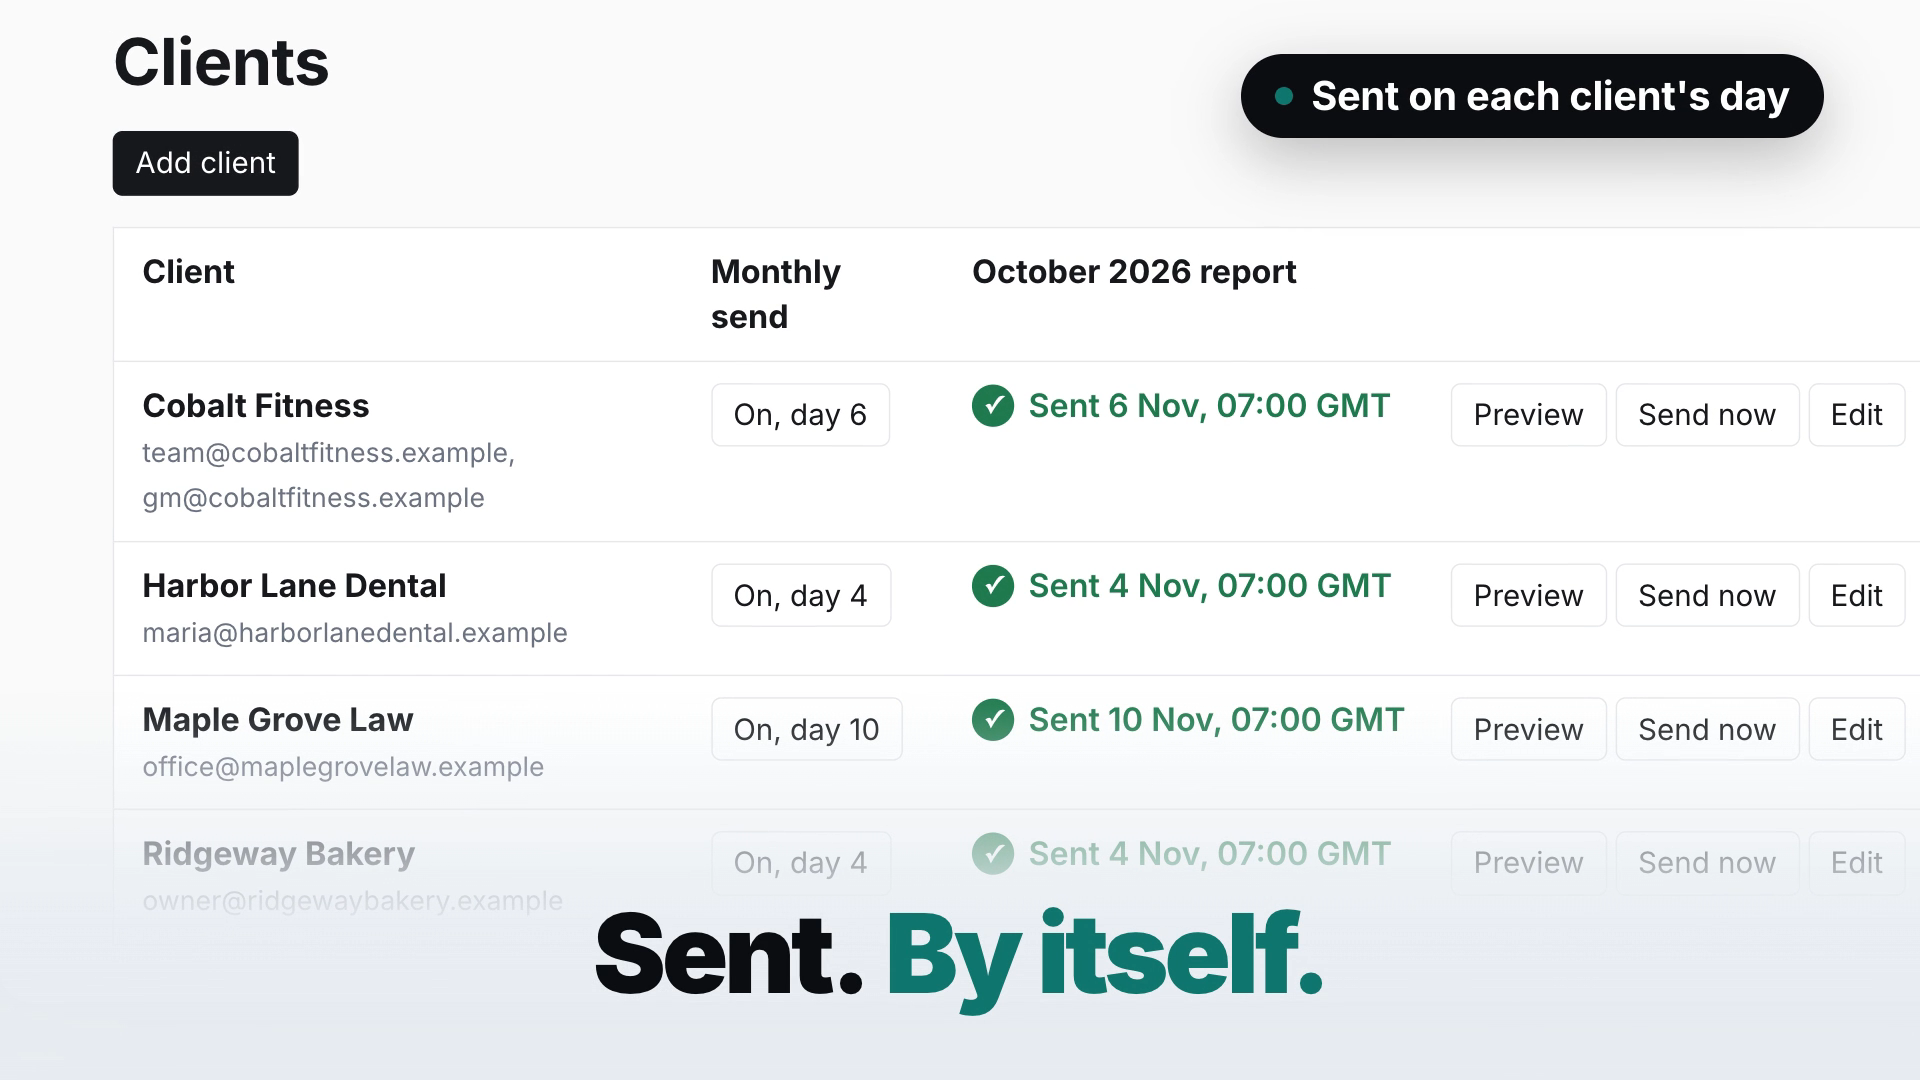
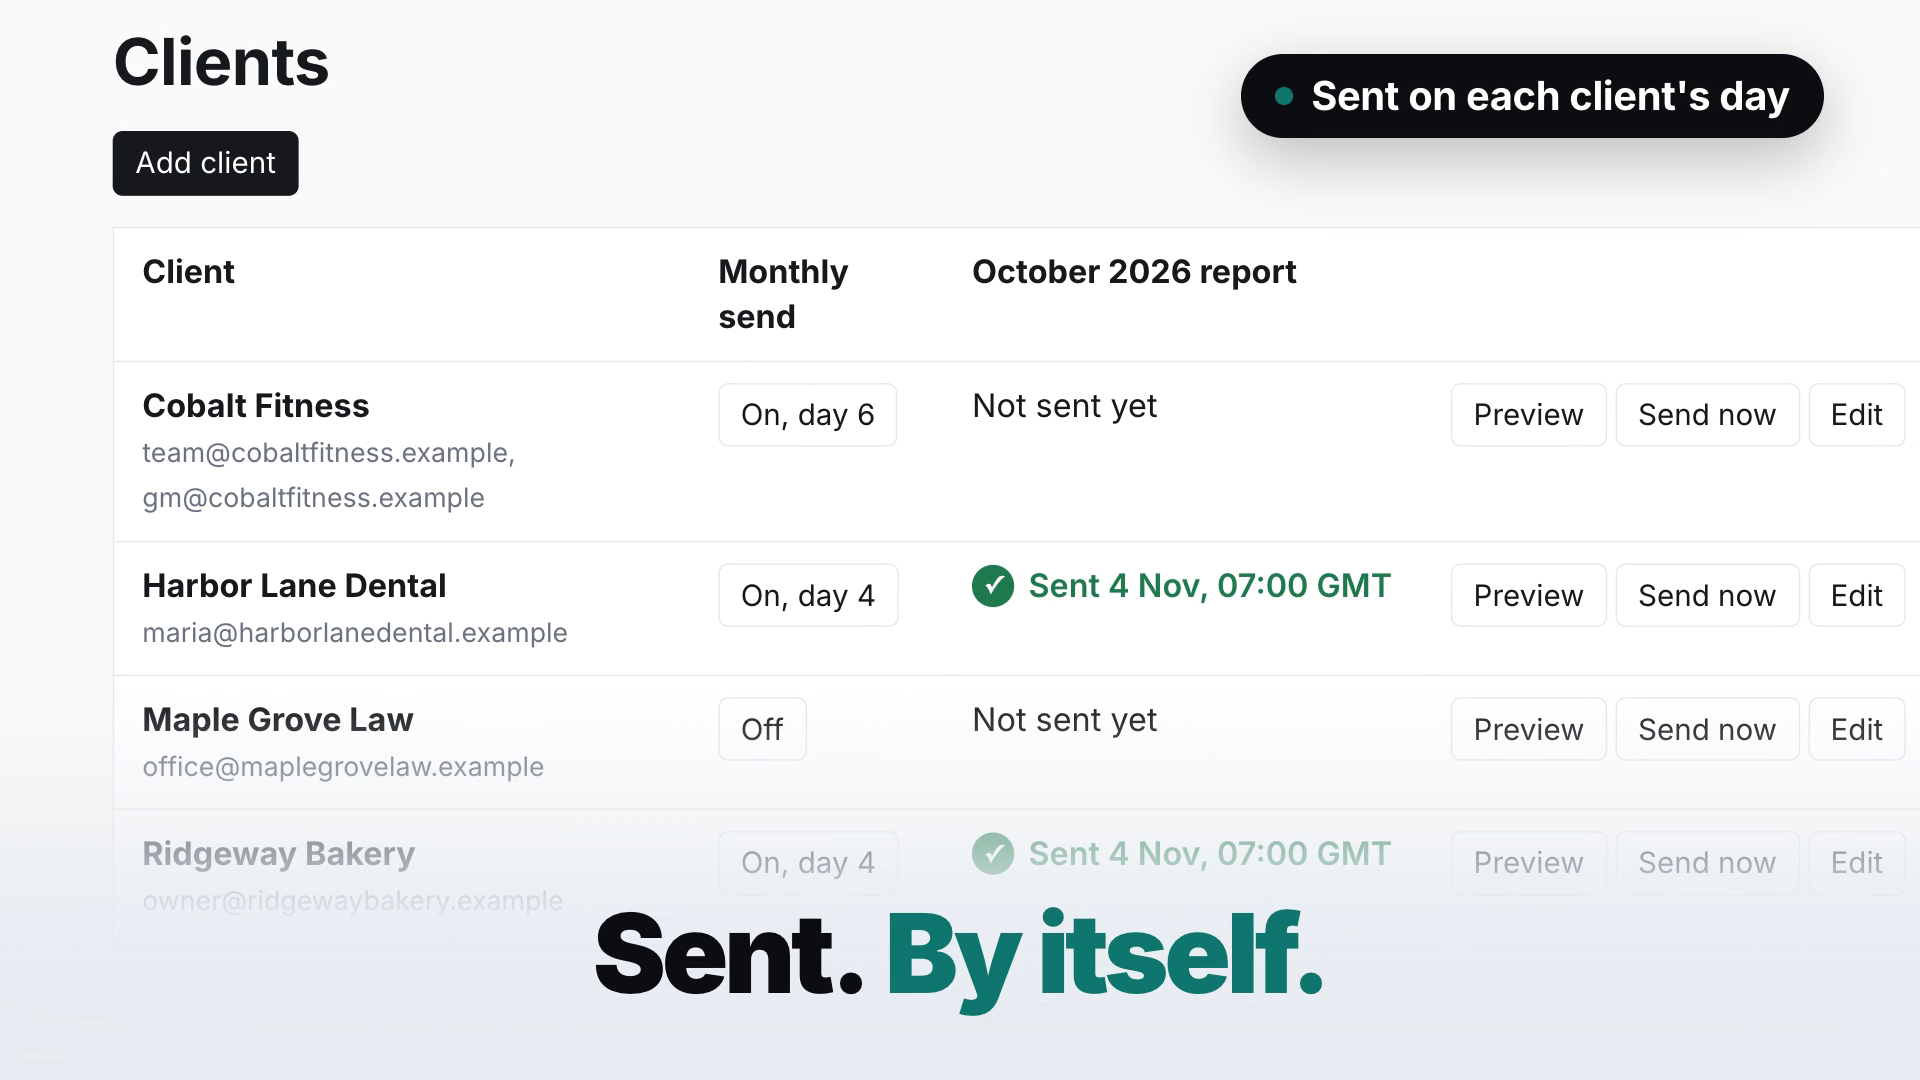
Fix example data and pacing, keep commands whole

diff --git a/skills/readmereel/template/runtime.js b/skills/readmereel/template/runtime.js
@@ -159,22 +159,26 @@ var RR = (function () {
   // ---------- terminal push (pure geometry) ----------
   // The terminal camera's push onto its focus block (the union of the highlighted lines' text): scale up to `max`
   // (1.4), capped so the whole block (every highlighted line, whole) stays inside the 40 px margins; the block's centre
-  // carried to the frame's middle down. Across, `column` (all the terminal's text, left-aligned) is centred when it
-  // fits at that scale; otherwise its left edge sits 80 px in, so only the tails of other lines crop. A block too wide
-  // for a 1.15 push (a long payoff line in tall) still gets 1.15, on the column left-aligned 80 px in.
+  // carried to the frame's middle down. The push is also capped so `column` (all the terminal's text, the command
+  // included) fits inside the margins: the command is never cut. Across, the column is centred; only a column wider
+  // than the margins at scale 1 (no push) sits with its left edge 80 px in.
   // Rects in frame px at identity.
   function termPush(W, H, block, max, column) {
     const SAFE = 40;
     const cap = Math.min(max || 1.4, (W - 2 * SAFE) / Math.max(1, block.w), (H - 2 * SAFE) / Math.max(1, block.h));
-    const scale = Math.max(cap, 1.15);
+    // Never so far that the text column (the command included) runs past the margins: a column wider than the frame's
+    // margins at 1 gets no push at all.
+    const colCap = column ? (W - 2 * SAFE) / Math.max(1, column.w) : Infinity;
+    const scale = Math.min(Math.max(cap, 1.15), Math.max(colCap, 1));
     const ox = block.x + block.w / 2, oy = block.y + block.h / 2;
     const on = (x) => ox + scale * (x - ox);
     const col = column || block;
     let tx;
-    if (cap < 1.15) tx = 2 * SAFE - on(col.x);
+    if (col.w * scale <= W - 2 * SAFE + 1e-6) tx = W / 2 - on(col.x + col.w / 2);
     else {
-      tx = col.w * scale <= W - 2 * SAFE ? W / 2 - on(col.x + col.w / 2) : 2 * SAFE - on(col.x);
-      tx = Math.min(Math.max(tx, SAFE - on(block.x)), W - SAFE - on(block.x + block.w));
+      // Only a column wider than the margins at scale 1 gets here: its left edge 80 px in, the block kept inside.
+      tx = 2 * SAFE - on(col.x);
+      if (cap >= 1.15) tx = Math.min(Math.max(tx, SAFE - on(block.x)), W - SAFE - on(block.x + block.w));
     }
     return { scale, ox, oy, tx, ty: H / 2 - oy };
   }
@@ -251,23 +255,30 @@ var RR = (function () {
       return { x: sh.x + best("x"), y: sh.y + best("y"), scale: s };
     }
     // The push to one focus box. Wide: the box fills at most 80% of the width and fits under the chip (scale 1.2 to
-    // 2.6), centred. Tall: framed by height (the box about half the frame); a box then wider than the frame is panned,
-    // from its left edge to its right edge, while it holds. band = { top, bottom }: where the box may sit.
+    // 2.6), centred. Tall: the box across the width, the window over at least 60% of the height; a box then wider than
+    // the frame is panned, from its left edge to its right edge, while it holds. band = { top, bottom }: where the box
+    // may sit.
     function focus(g, r, texts, band) {
       const room = band.bottom - band.top;
       if (g.wide) {
         const s = clamp(Math.min((0.8 * g.W) / r.w, (0.9 * room) / r.h), 1.2, 2.6);
         return { from: clean(g, shot(g, r, s, g.W / 2, g.H / 2, band.top, band.bottom), texts, r, band.top, band.bottom), to: null };
       }
-      const s = clamp(Math.min((0.5 * g.H) / r.h, (0.9 * room) / r.h), 1.2, 2.6);
+      // Tall: the box fills the 1080 px width, and the window covers at least 60% of the height (a frame that is
+      // mostly ground reads as empty); a box then wider than the frame is panned.
+      const fill = (g.W - 2 * SAFE) / r.w, body = (0.6 * g.H) / g.WH;
+      const s = clamp(Math.min(Math.max(fill, body), (0.9 * room) / r.h), 1.2, 2.6);
       const cy = (band.top + band.bottom) / 2;
       if (s * r.w <= g.W - 2 * SAFE) return { from: clean(g, shot(g, r, s, g.W / 2, cy, band.top, band.bottom), texts, r, band.top, band.bottom), to: null };
       const at = (cx) => clean(g, shot(g, r, s, cx, cy, band.top, band.bottom), texts, r, band.top, band.bottom);
       return { from: at(SAFE + (s * r.w) / 2), to: at(g.W - SAFE - (s * r.w) / 2) };
     }
-    // The caption view: 10% back from where the last push ended, the box lifted between the chip and the caption.
+    // The caption view: 10% back from where the last push ended (tall: the box across the width), the box lifted
+    // between the chip and the caption.
     function backShot(g, r, last, texts, band) {
-      const s = Math.max(1, Math.min(last.scale * 0.9, (0.95 * (band.bottom - band.top)) / r.h));
+      // Tall: the whole box across the width, centred (the caption view shows what acted, uncut).
+      const far = g.wide ? last.scale * 0.9 : (g.W - 2 * SAFE) / r.w;
+      const s = Math.max(1, Math.min(far, (0.95 * (band.bottom - band.top)) / r.h));
       const wider = s * r.w > g.W - 2 * SAFE;
       // Tall, still wider than the frame: stay on the side the pan ended on.
       const cx = !g.wide && wider ? g.W - SAFE - (s * r.w) / 2 : g.W / 2;
@@ -407,6 +418,7 @@ var RR = (function () {
           const dot = document.createElement("div");
           dot.className = "zoom-dot";
           dot.setAttribute("data-layout-ignore", "");
+        dot.setAttribute("data-layout-allow-occlusion", ""); // it covers the scene on purpose
           // A crisp disc: motion blur's capture of a fast-growing layer let parts of the screen show through it.
           dot.setAttribute("data-motion-blur", "off");
           Object.assign(dot.style, { position: "absolute", left: cx - r + "px", top: cy - r + "px", width: 2 * r + "px", height: 2 * r + "px", borderRadius: "50%", background: disc, opacity: "0", zIndex: "50", pointerEvents: "none" });
@@ -429,6 +441,7 @@ var RR = (function () {
         const dot = document.createElement("div");
         dot.className = "zoom-dot";
         dot.setAttribute("data-layout-ignore", "");
+        dot.setAttribute("data-layout-allow-occlusion", ""); // it covers the scene on purpose
         dot.setAttribute("data-motion-blur", "off");
         Object.assign(dot.style, { position: "absolute", left: cx - r + "px", top: cy - r + "px", width: 2 * r + "px", height: 2 * r + "px", borderRadius: "50%", background: D.nextGround, opacity: "0", zIndex: "50", pointerEvents: "none" });
         R.appendChild(dot);

diff --git a/skills/readmereel/template/scenes/ui.html b/skills/readmereel/template/scenes/ui.html
@@ -208,7 +208,10 @@ __RUNTIME__
   const onScreen = (r) => ({ x: back.x + back.scale * r.x, y: back.y + back.scale * r.y, w: back.scale * r.w, h: back.scale * r.h });
   let dive = target && onScreen(target);
   const visible = (r) => r.x >= SAFE && r.x + r.w <= W - SAFE && r.y >= top && r.y + r.h <= capTop;
-  if (!dive || !visible(dive)) { dive = onScreen(last); disc = ""; }
+  // No tick to dive through (an image, or a tick hidden under the caption): the dive aims at the last focus box's
+  // centre, through a 120 px disc in the accent colour, so every zoom floods through a colour.
+  if (!dive || !visible(dive)) { const b = onScreen(last); dive = { x: b.x + b.w / 2 - 60, y: b.y + b.h / 2 - 60, w: 120, h: 120 }; disc = D.data.accent; }
+  if (!disc) disc = D.data.accent; // a tick with no colour of its own floods in the accent
   const zw = disc ? dive.w : Math.min(240, Math.max(dive.w, dive.h)), zh = disc ? dive.h : zw;
   const zt = q(".ui-target");
   Object.assign(zt.style, { left: dive.x + dive.w / 2 - zw / 2 + "px", top: dive.y + dive.h / 2 - zh / 2 + "px", width: zw + "px", height: zh + "px" });

diff --git a/examples/agencyrecap/screens/dashboard.html b/examples/agencyrecap/screens/dashboard.html
@@ -39,7 +39,7 @@
   <tr id="row1">
     <td><strong>Cobalt Fitness</strong><br><span class="hint">team@cobaltfitness.example, gm@cobaltfitness.example</span></td>
     <td><button>On, day 6</button></td>
-    <td><div class="status"><span class="was">Not sent yet</span><span class="now ok"><span class="tick">✓</span>Sent 6 Nov, 07:00 GMT</span></div></td>
+    <td>Not sent yet</td>
     <td><a class="button">Preview</a><button>Send now</button><a class="button">Edit</a></td>
   </tr>
   <tr id="row2">
@@ -50,8 +50,8 @@
   </tr>
   <tr id="row3">
     <td><strong>Maple Grove Law</strong><br><span class="hint">office@maplegrovelaw.example</span></td>
-    <td><button>On, day 10</button></td>
-    <td><div class="status"><span class="was">Not sent yet</span><span class="now ok"><span class="tick">✓</span>Sent 10 Nov, 07:00 GMT</span></div></td>
+    <td><button>Off</button></td>
+    <td>Not sent yet</td>
     <td><a class="button">Preview</a><button>Send now</button><a class="button">Edit</a></td>
   </tr>
   <tr id="row4">

diff --git a/skills/readmereel/template/scenes/terminal.html b/skills/readmereel/template/scenes/terminal.html
@@ -120,7 +120,7 @@ __RUNTIME__
   const inked = (el) => { range.selectNodeContents(el); return rect(range); };
   const unite = (rs) => { const x0 = Math.min(...rs.map((r) => r.x)), y0 = Math.min(...rs.map((r) => r.y)); return { x: x0, y: y0, w: Math.max(...rs.map((r) => r.x + r.w)) - x0, h: Math.max(...rs.map((r) => r.y + r.h)) - y0 }; };
   // The push (RR.termPush): onto the highlighted lines' text, up to 1.4 and never so far that it leaves the margins;
-  // down, the lines centred; across, the whole text column centred, or left-aligned 80 px in when it is too wide. Lines too wide for a real push (under 1.3) give way to the first highlighted line alone; without
+  // down, the lines centred; across, the whole text column (the command included) centred, the push capped so it fits. Lines too wide for a real push (under 1.3) give way to the first highlighted line alone; without
   // highlights the push goes to the last line.
   const hls = qa(".term-line.hl");
   const focus = hls[0] || lines.at(-1);

diff --git a/skills/readmereel/template/scenes/counter.html b/skills/readmereel/template/scenes/counter.html
@@ -97,6 +97,9 @@ __RUNTIME__
   q(".counter-glow").style.background = "radial-gradient(900px 700px at " + c.x + "px " + c.y + "px, color-mix(in srgb, var(--accent) 15%, transparent), transparent 70%)";
   tl.fromTo(q(".counter-glow"), { opacity: 0 }, { opacity: 1, duration: 0.6, ease: "power1.out" }, 0)
     .fromTo(row, { scale: 1 }, { scale: 1.03, transformOrigin: origin, duration: Math.max(0.1, D.duration - 0.45 - starts[0]), ease: "power1.out" }, starts[0]);
+  // A zoom exit dives through the first figure (its box keeps its landed width), which grows as an accent disc.
+  figures[0].setAttribute("data-zoom-target", "");
+  figures[0].setAttribute("data-zoom-disc", D.data.accent);
   S.done();
 })();
 </script>

diff --git a/skills/readmereel/template/scenes/hook.html b/skills/readmereel/template/scenes/hook.html
@@ -48,7 +48,11 @@ __RUNTIME__
         RR.roll(tl, num, 1, D.data.count.to, t, 0.45);
       }
     }
-    if (k < lines.length - 1) tl.to(el, { y: -travel, filter: "blur(18px)", duration: 0.2, ease: "power3.in" }, starts[k + 1] - 0.12);
+    // Whips up and off: a full frame height, then hidden, so no blurred sliver lingers at the top edge.
+    if (k < lines.length - 1) {
+      tl.to(el, { y: -H, filter: "blur(18px)", duration: 0.2, ease: "power3.in" }, starts[k + 1] - 0.12)
+        .set(el, { autoAlpha: 0 }, starts[k + 1] + 0.08);
+    }
   });
   lines.slice(1).forEach((el) => tl.set(el, { opacity: 0 }, 0));
   lines.at(-1).classList.add("hero");

diff --git a/skills/readmereel/template/scenes/title.html b/skills/readmereel/template/scenes/title.html
@@ -67,6 +67,8 @@ __RUNTIME__
     // Letters 0.035 s apart, but a long name still lands within 0.4 s.
     .fromTo(qa(".title-name .l"), { opacity: 0.55, filter: "blur(6px)" }, { opacity: 1, filter: "blur(0px)", duration: 0.28, stagger: Math.min(0.035, 0.4 / Math.max(1, qa(".title-name .l").length - 1)), ease: "power2.out" }, tName);
   RR.blurIn(tl, words, tPromise, { stagger: 0.07, duration: 0.16 });
+  // A zoom exit dives through the badge, which grows as an accent disc into the next scene's ground.
+  q(".title-badge").setAttribute("data-zoom-disc", D.data.accent);
   S.done();
 })();
 </script>
